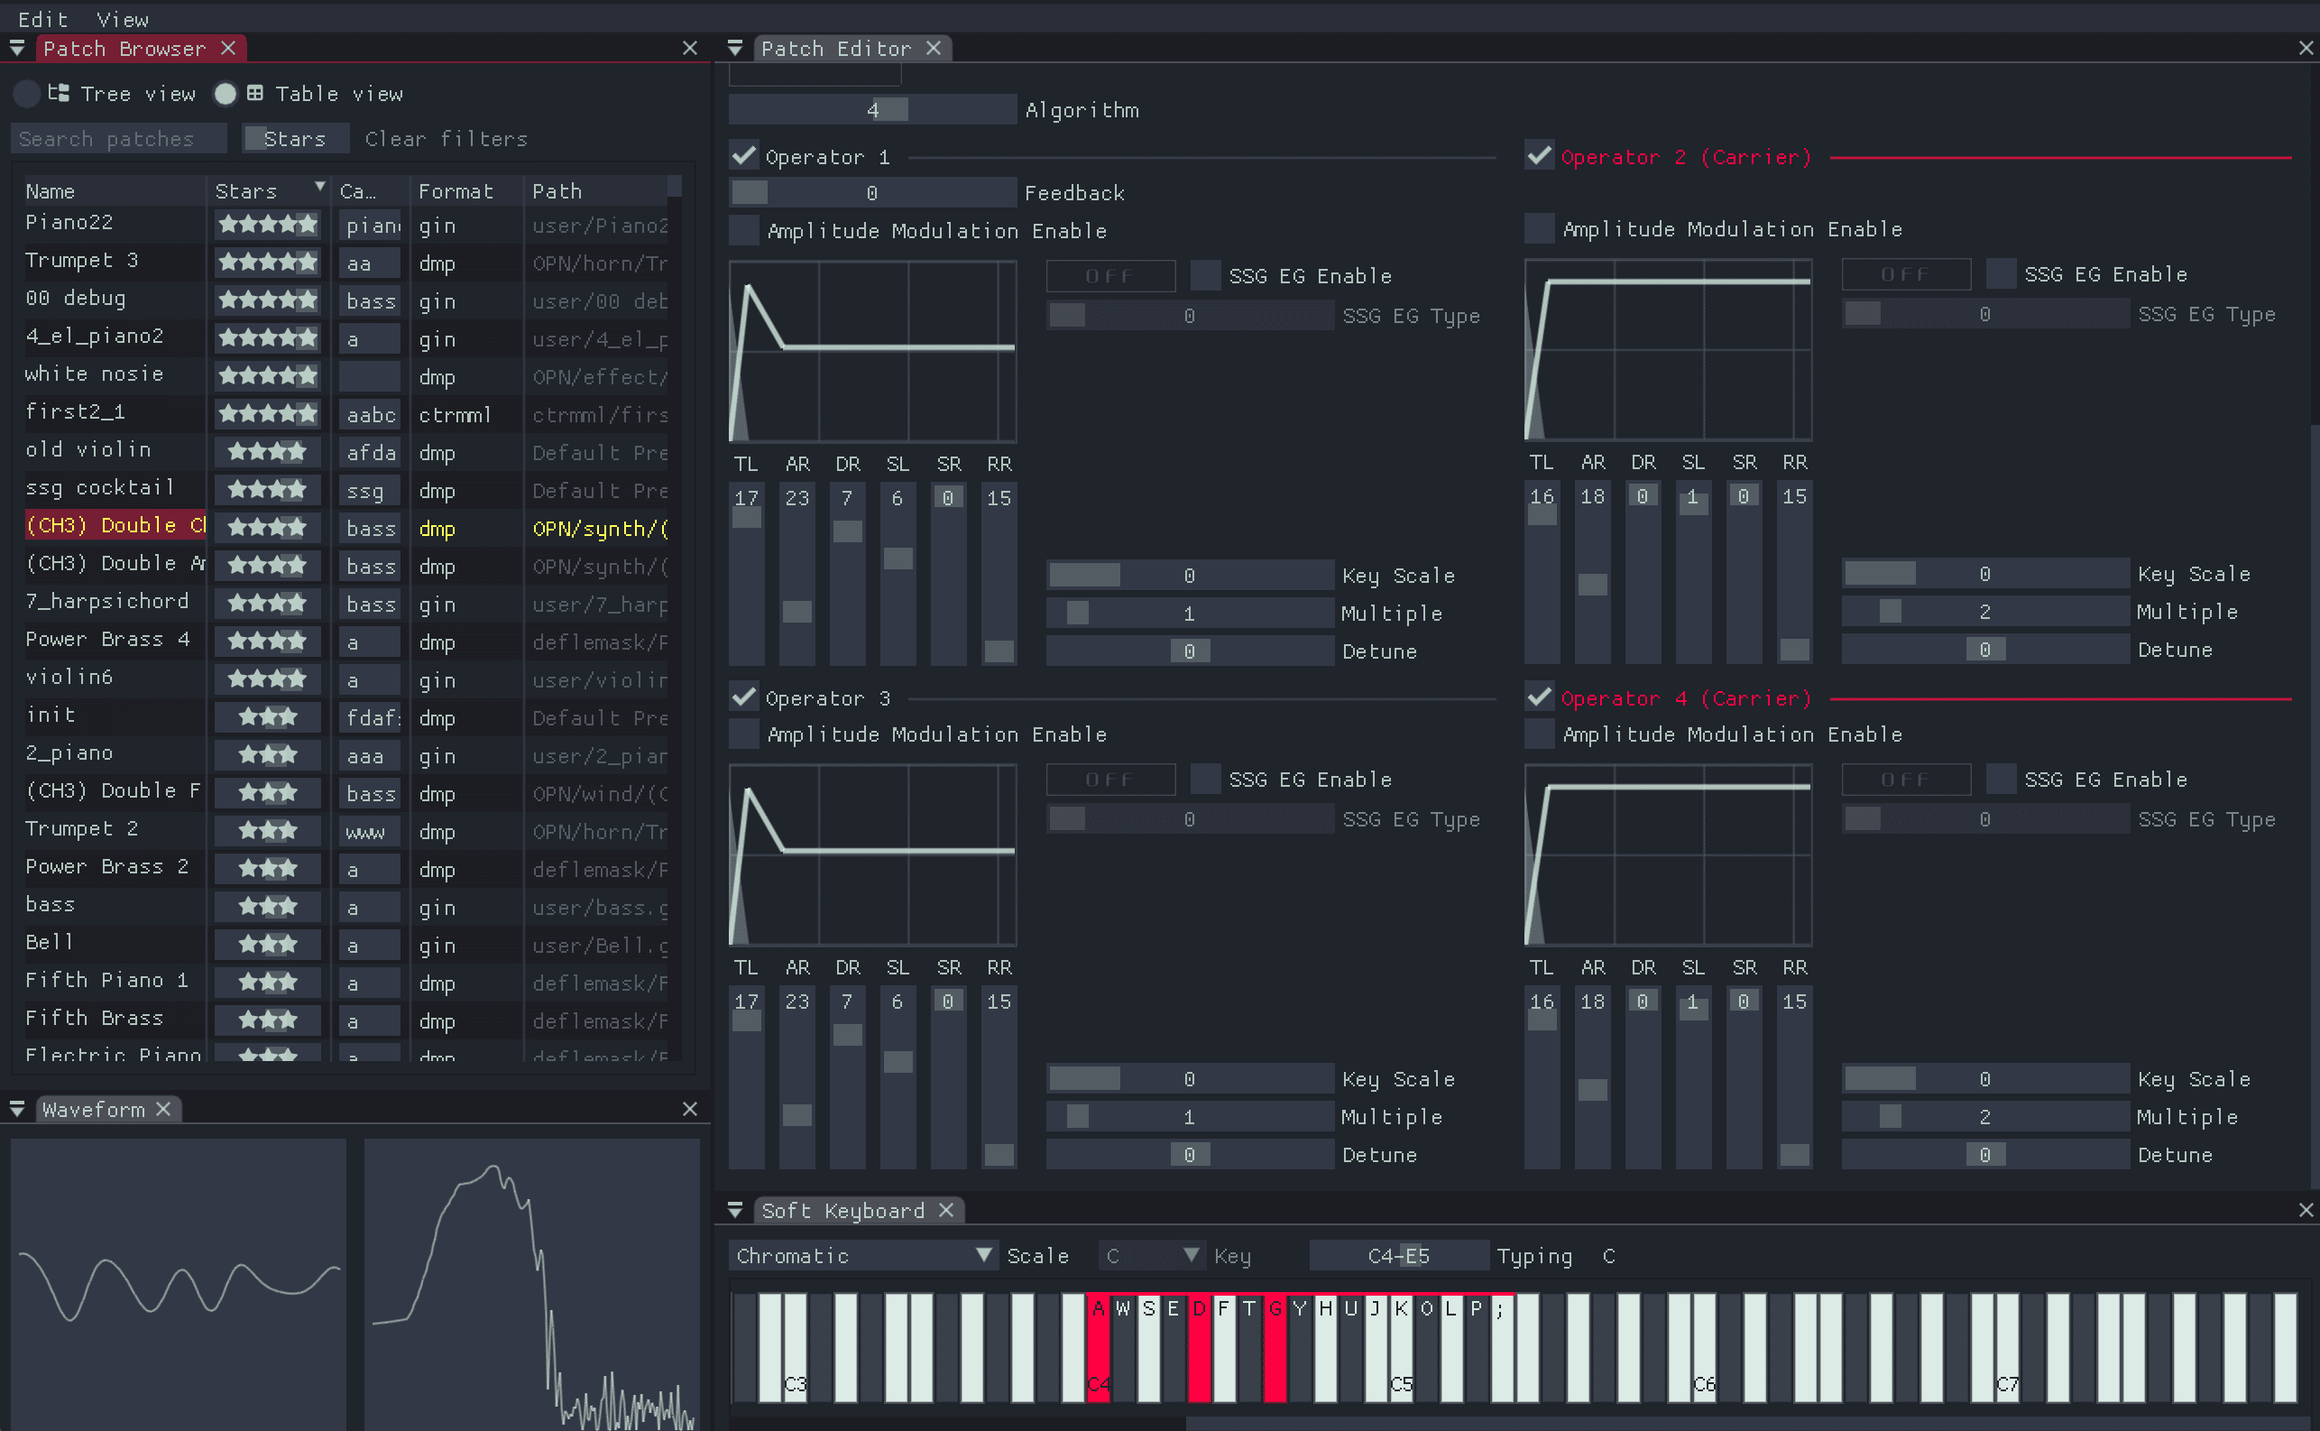
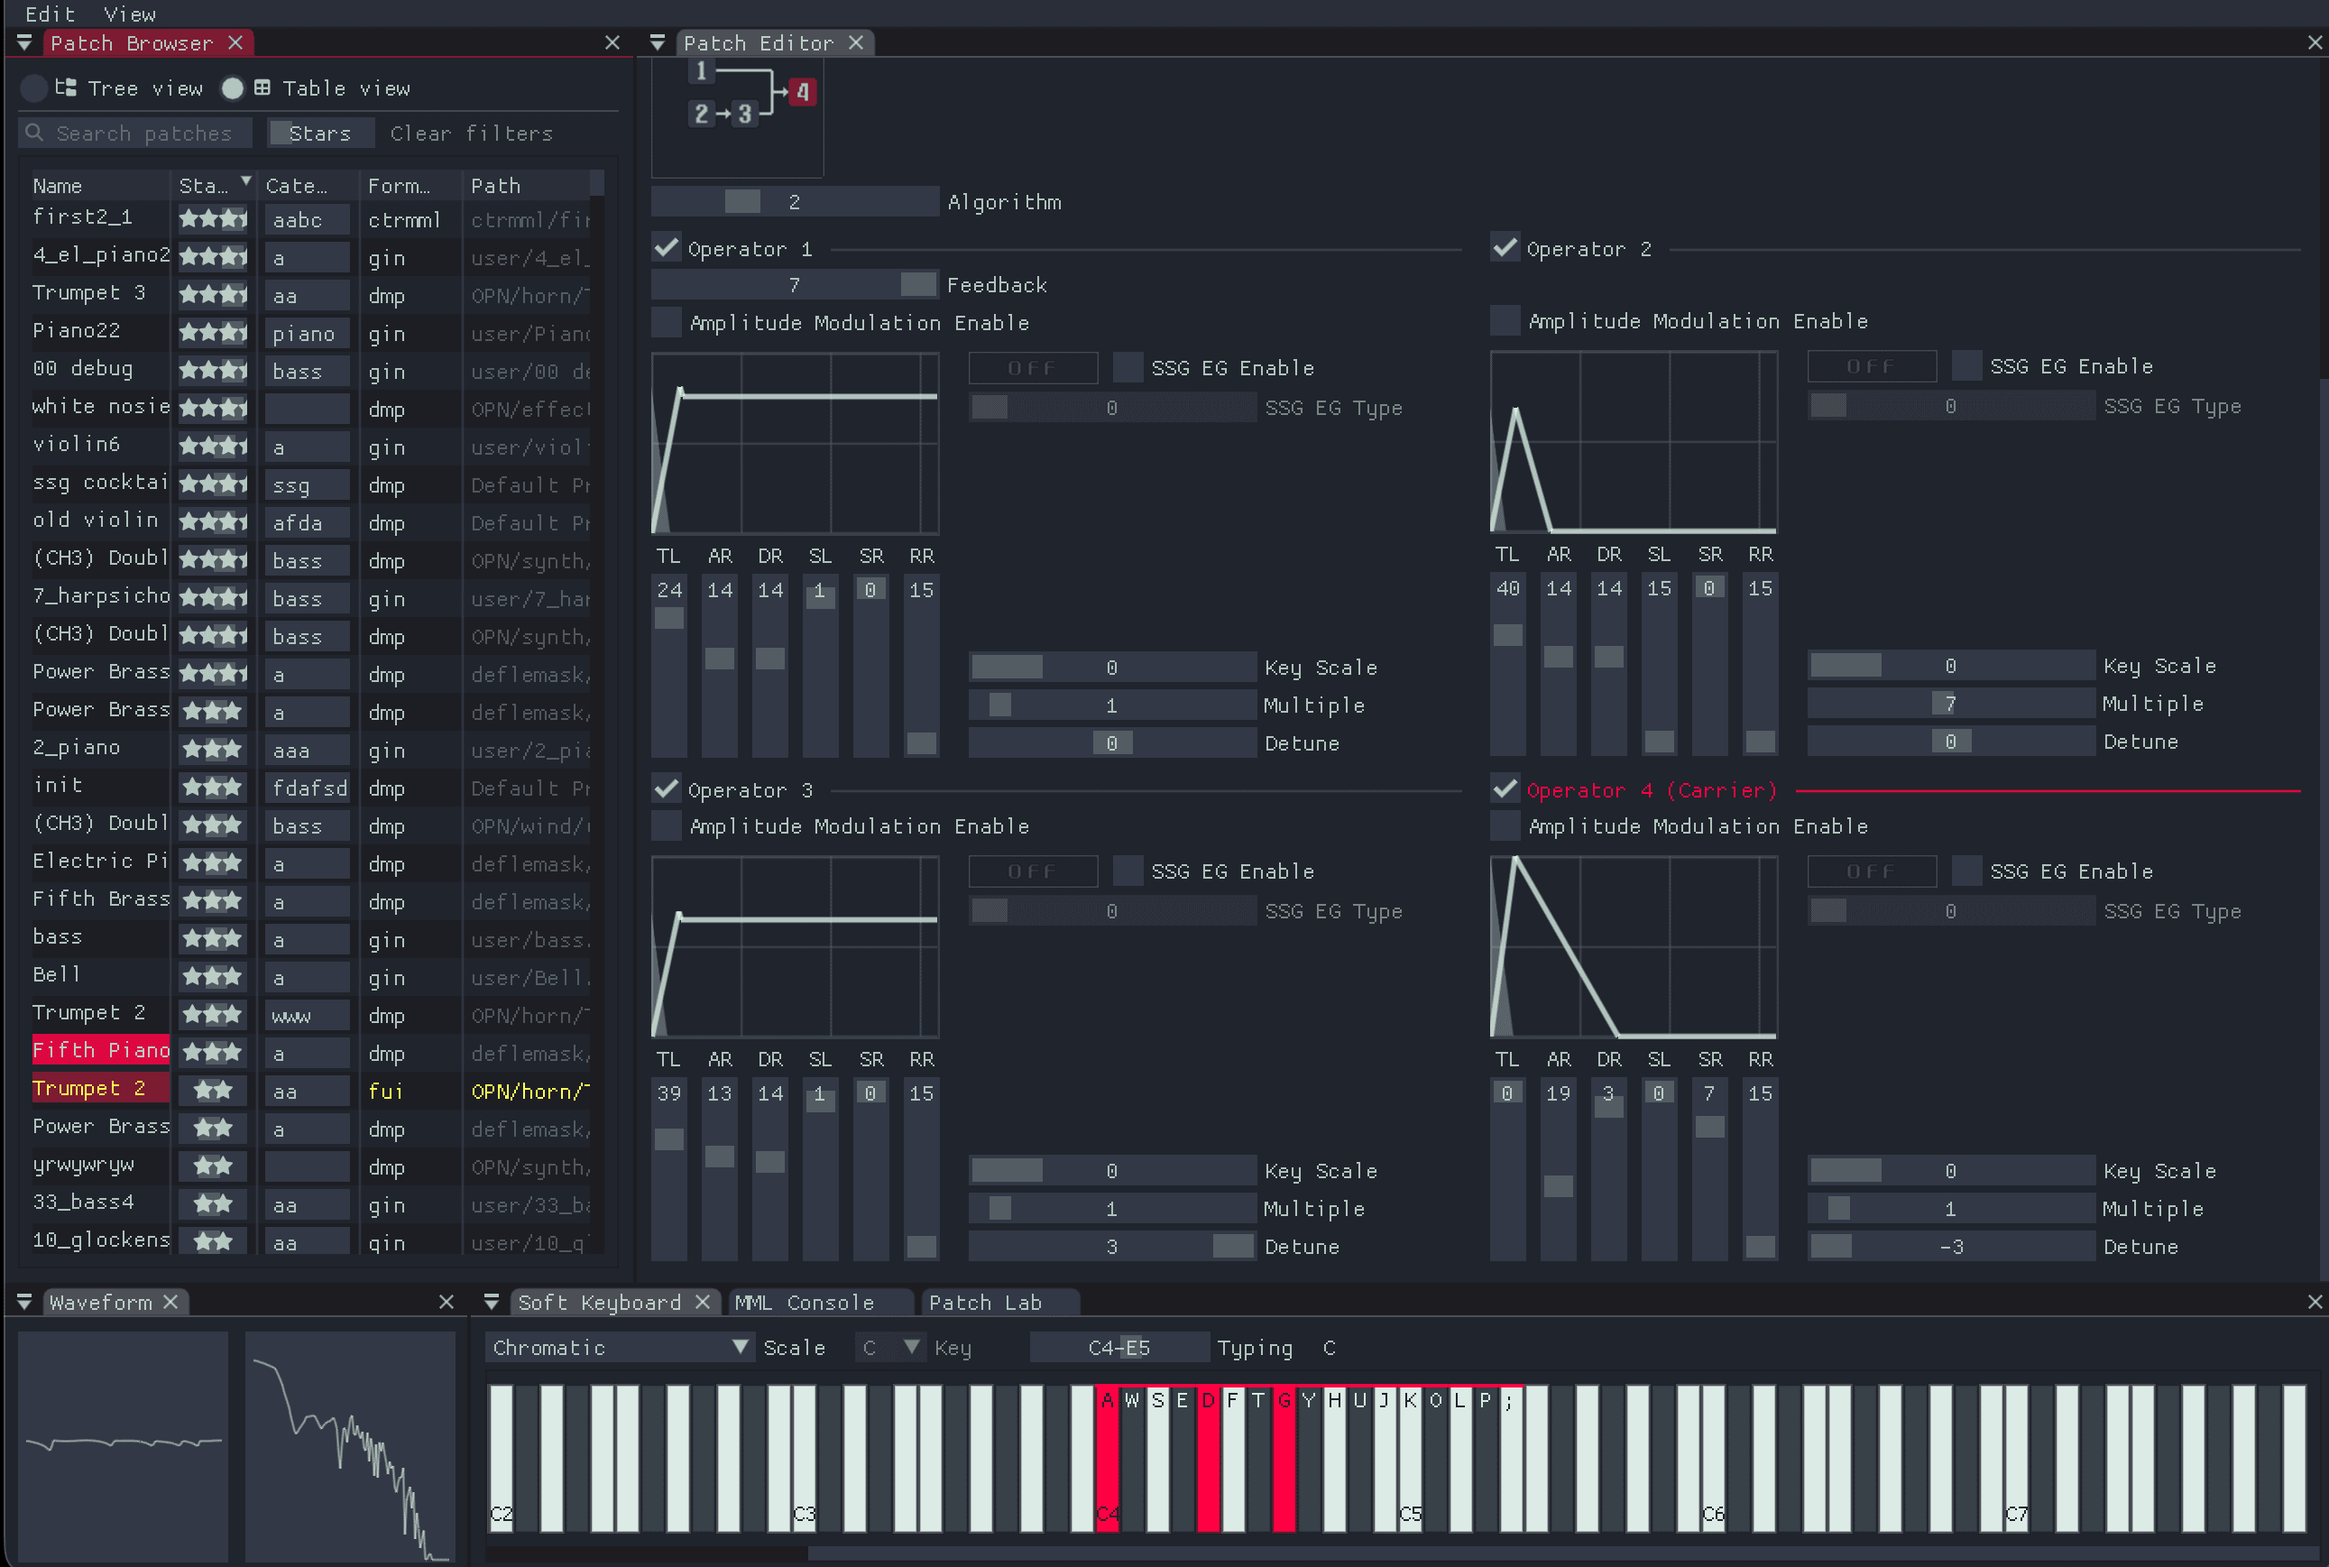
Add Patch Lab feature documentation and images
Updated README.md to document the new experimental Patch Lab feature, including its functions such as randomize, blend merge, morph blend, and mutate. Added patch_lab.png and updated screenshot.png in the docs directory to visually represent the new feature.

diff --git a/README.md b/README.md
@@ -6,6 +6,18 @@
 
 A comprehensive **YM2612/OPN2 patch editor** for the Sega Genesis/Mega Drive sound chip. Designed for musicians, sound designers, and chiptune enthusiasts who want to create and experiment with FM synthesis patches.
 
+## Patch Lab (Experimental)
+
+![Patch Lab Screenshot](https://raw.githubusercontent.com/ulalume/megatoy/main/docs/patch_lab.png)
+
+Access via **View ▸ Patch Lab**.
+Changes apply directly to your active patch with full undo support.
+
+- **Randomize** – Generates a new patch each time.
+- **Blend merge** – Mixes two patches from your patches by randomly choosing parameters from Patch A and Patch B. You can pick both sources via combo boxes and reuse seeds.
+- **Morph blend** – Interpolates between two patches using a 0–1 blend slider with smooth parameter transitions.
+- **Mutate** – Applies subtle or extreme perturbations to the current patch. Adjust variation depth, probability, and algorithm-lock toggles to taste, or repeat with a fixed seed for reproducible tweaks.
+
 ## Key Features
 
 ### Patch Management
@@ -24,6 +36,7 @@ A comprehensive **YM2612/OPN2 patch editor** for the Sega Genesis/Mega Drive sou
 
 ### Advanced Editing
 
+- **Patch Lab (Experimental)** window for randomized patch design, blending existing sounds, and quick mutations
 - **Visual envelope editor** with interactive ADSR curves
 - **Undo/Redo history** for safe experimentation
 
